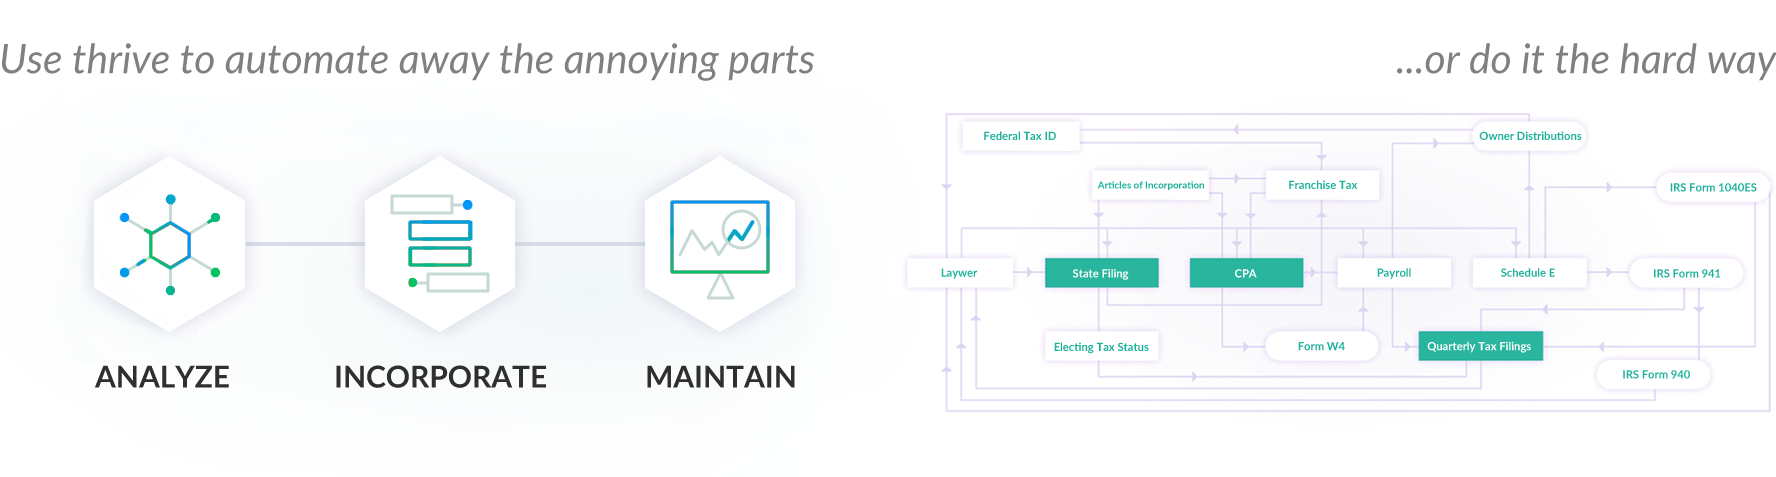
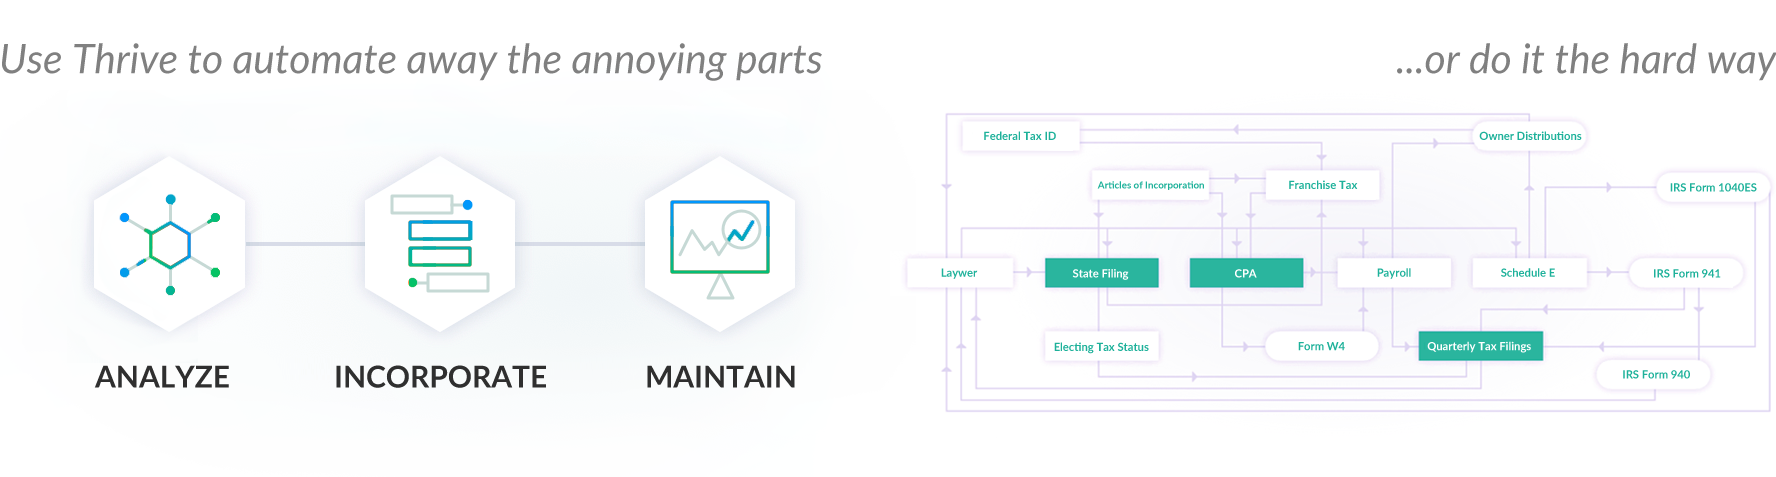
trent tinkers

Changed region(s): [[0.031, 0.0881, 0.4645, 0.1761]]

diff --git a/src/app/components/incorporation/incorporation.component.html b/src/app/components/incorporation/incorporation.component.html
@@ -2,7 +2,6 @@
 <div [class.hidden]="selectedSection !== 1" class="container">
   <div class=value-prop>
     <h1 style="font-weight: 700;">Save time & money by setting up your S-Corp with Thrive</h1>
-    <br>
     <div style="width: 100%;">
       <img alt="complexity image" src="assets/images/complexity_comparisonSS.png" style="width: 100%;">
     </div>
@@ -10,7 +9,7 @@
     <table>
       <tbody>
         <tr>
-          <td class="incorporate-col-1 table-head">Thrive services</td>
+          <td class="incorporate-col-1 table-head">Our services</td>
           <td class="incorporate-col-2 table-head">How it works</td>
           <td class="incorporate-col-3 table-head">What you get</td>
         </tr>
